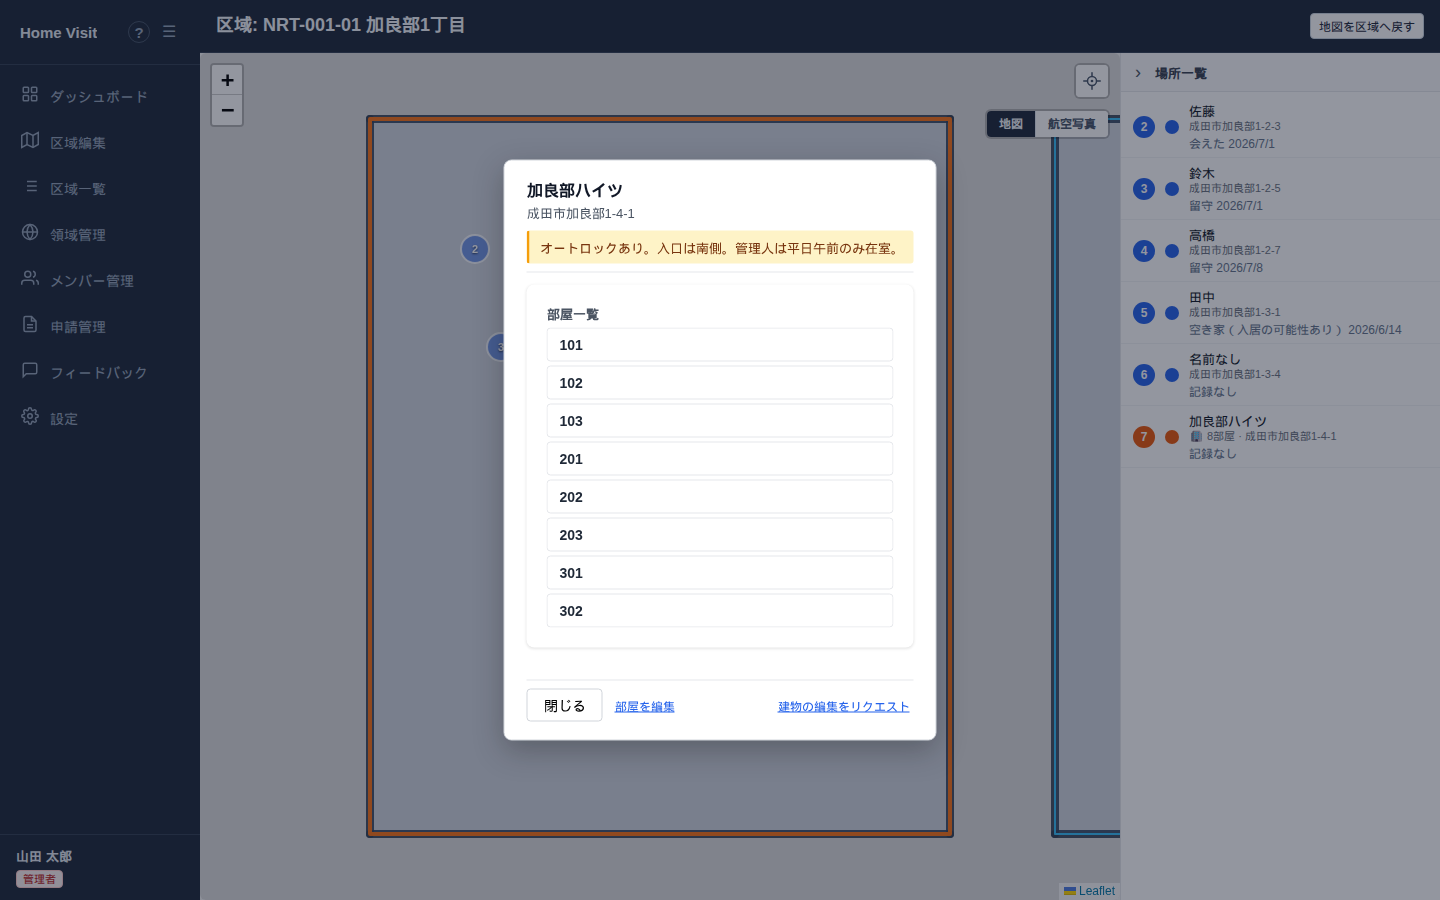
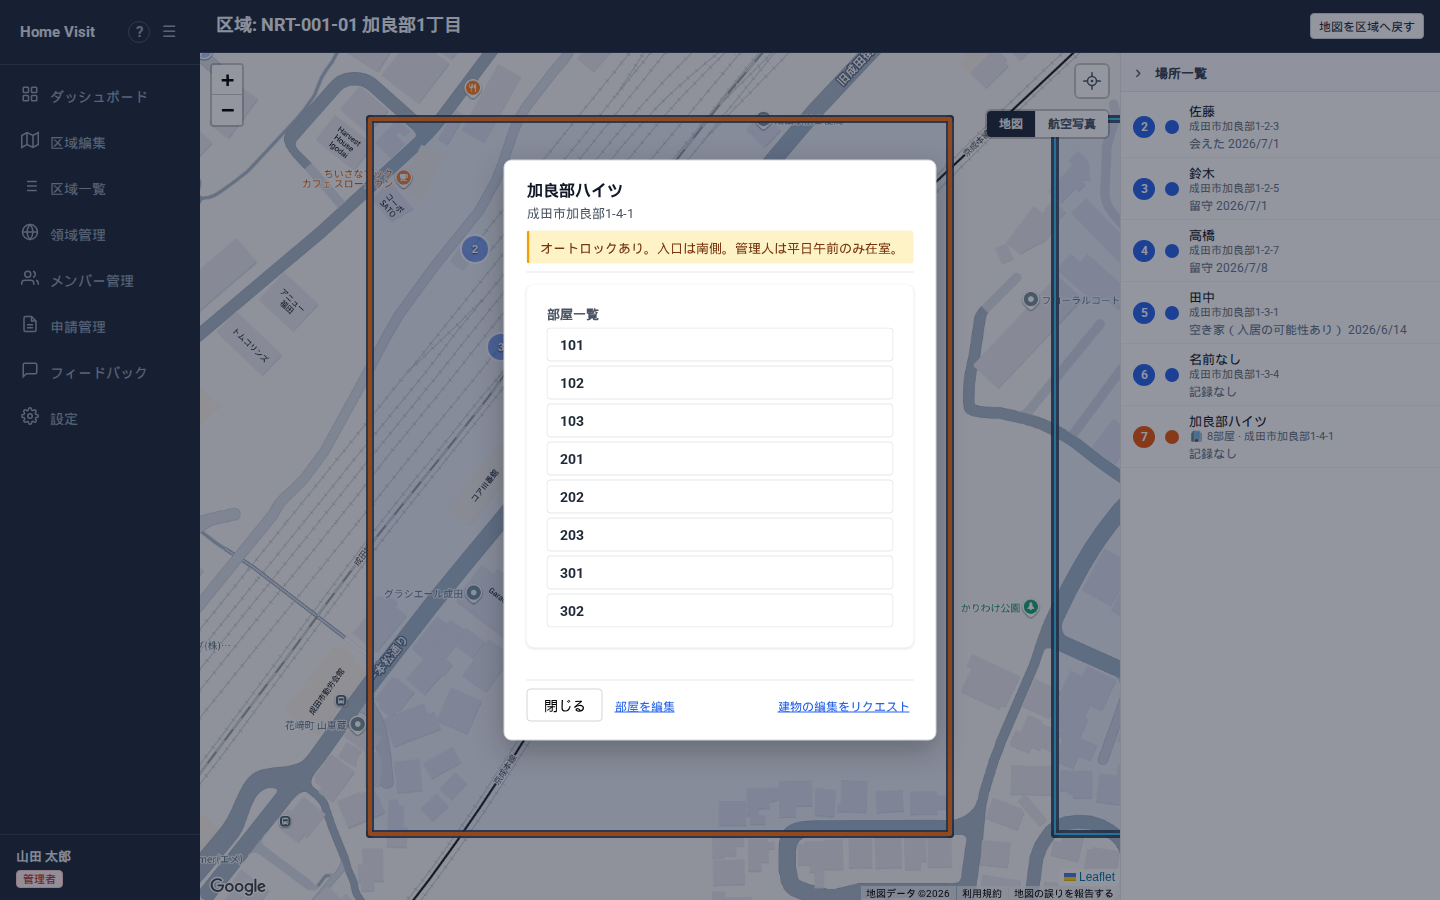
chore(manual): リファラ許可の追加を受けて地図系の図を撮り直した
Google Maps API キーの HTTP リファラ許可リストに http://localhost:5199/* が
追加されたため、撮影用サーバーからもタイルが読めるようになった。地図を含む
5 枚（map-overview / map-drawing / map-link-area / visits-overview /
visits-building-dialog）が正しく地図付きで撮れている。

設定画面の 2 枚も差分に載った。settings-overview は「アプリ情報」がビルド
日時とコミットハッシュを表示するため撮るたびに変わる。既知の限界の記述が
settings-add-device だけを挙げていて不正確だったので、両方を対象に直した。

diff --git a/docs/wants/12_操作マニュアル.md b/docs/wants/12_操作マニュアル.md
@@ -134,11 +134,12 @@ export type ManualTopic = "dashboard" | "map" | "visits" | ...;
   かぎ括弧で引用するが、この 1 ファイルを全ページの `sources` に入れると、どこか 1 語の変更で全ページが一斉に stale になる。
   常に鳴る警報は無視されるようになるため、あえて `sources` に含めない。
   文言だけを変えたときはマニュアルの引用が古くなり得る点は、人が意識して補う。
-- **`settings-add-device` の図だけ再現性がない**（2026-07-20 時点で許容）。ペアリング用の QR payload と
-  有効期限のカウントダウンを含むため撮るたびに内容が変わり、再撮影のたびに PNG が差分に載る。
-  図中の URL も撮影用サーバーの `http://localhost:5199/...` になる。この図が示したいのは
-  ダイアログの構造であって QR の中身ではないため、差分ノイズを承知で許容している。
-  気になる場合はこの 1 枚だけ手動撮影に切り替える。
+- **設定画面の 2 枚は再現性がない**（2026-07-20 時点で許容）。
+  `settings-add-device` はペアリング用の QR payload と有効期限のカウントダウンを含み、図中の URL も
+  撮影用サーバーの `http://localhost:5199/...` になる。`settings-overview` は「アプリ情報」に
+  ビルド日時とコミットハッシュを表示する。いずれも撮るたびに内容が変わるため、再撮影のたびに
+  PNG が差分に載る。これらの図が示したいのは画面の構造であって QR やビルド番号の値ではないため、
+  差分ノイズを承知で許容している。気になる場合はこの 2 枚だけ手動撮影に切り替える。
 - **`manual:seal` は本文を読まなくても実行できる**。見直さずに seal すると古い本文へ「最新」の印がつき、
   以後その陳腐化は永久に検知されない。運用上の唯一の弱点であり、`manual-sync` スキルで手順として縛る。
 
